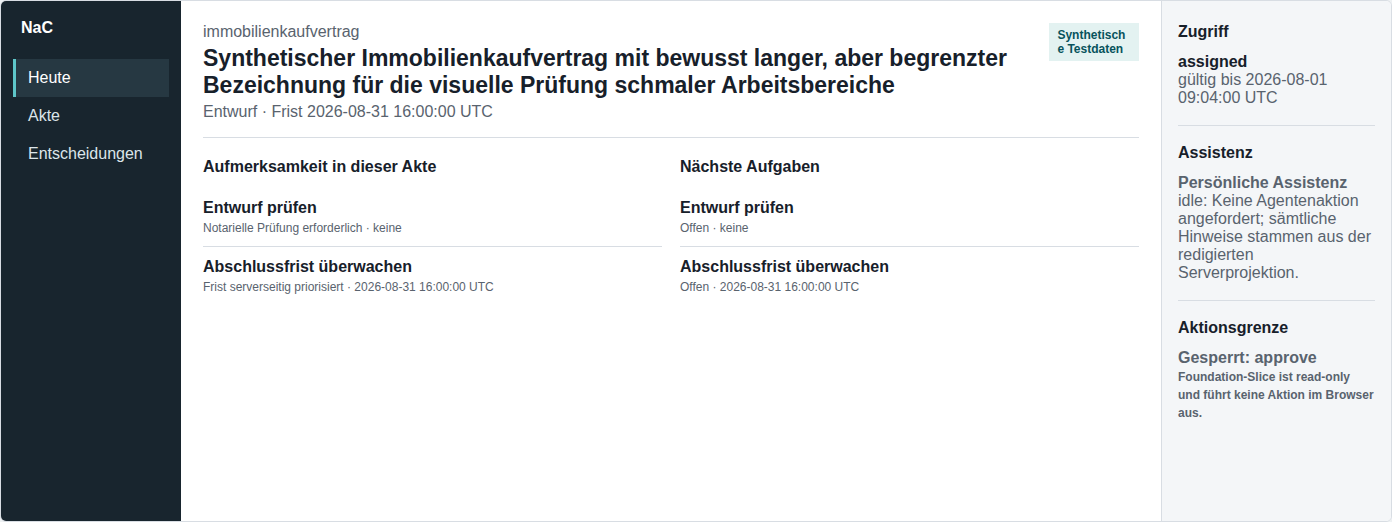
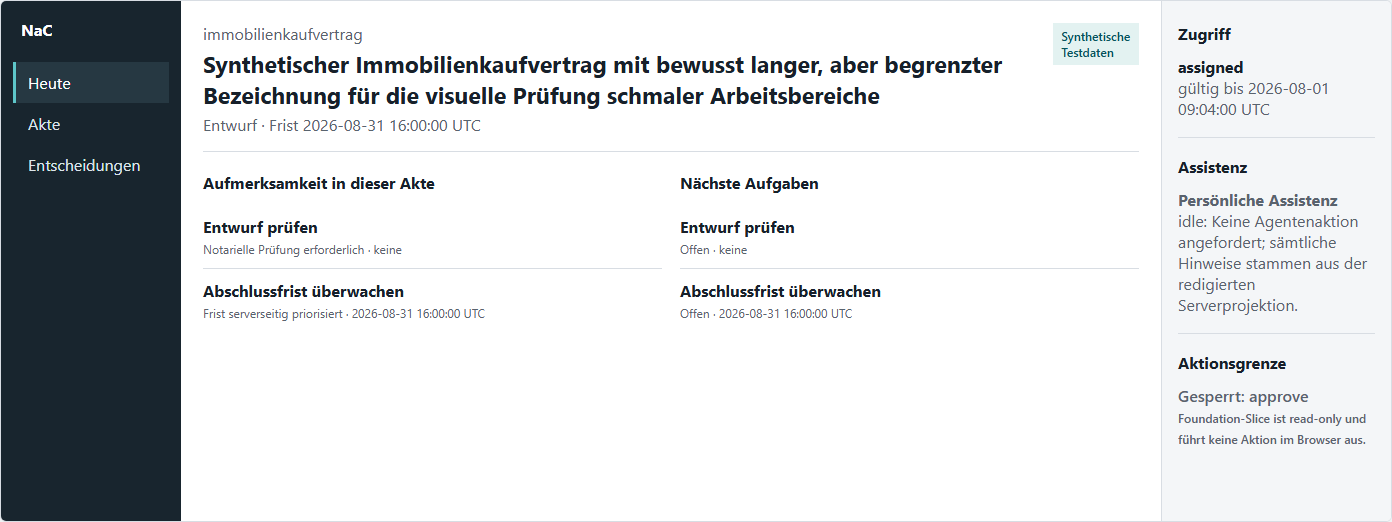
fix(ci): validate visual evidence across hosts

diff --git a/scripts/validate_m365_current_state_access_diagnostic.py b/scripts/validate_m365_current_state_access_diagnostic.py
@@ -43,10 +43,13 @@ REQUIRED_CHECKS = [
 ]
 REQUIRED_FILES = [
     ".codex/agents/nac-policy-reviewer.toml",
+    ".github/workflows/quality-gate.yml",
     ".github/workflows/windows-portability.yml",
     ".pi/agents/nac-policy-reviewer.md",
     "AGENTS.md",
     "agent-context/index.json",
+    "assets/docs/generic-workbench/VIS-721-01-desktop.png",
+    "assets/docs/generic-workbench/VIS-721-02-mobile.png",
     "assets/docs/generic-workbench/VIS-721-manifest.json",
     "assets/docs/workbench-live-read-binding/VIS-725-01-desktop-ready.png",
     "assets/docs/workbench-live-read-binding/VIS-725-02-narrow-spfx-ready.png",
@@ -75,6 +78,7 @@ REQUIRED_FILES = [
     "scripts/validate_m365_current_state_access_diagnostic.py",
     "scripts/validate_spec_traceability.py",
     "scripts/validate_workbench_live_read_binding.py",
+    "spfx/nac-bpmn-viewer/scripts/capture-workbench-visual-evidence.cjs",
     "spfx/nac-bpmn-viewer/scripts/capture-workbench-live-read-visual-evidence.cjs",
     "spfx/nac-bpmn-viewer/scripts/generate-workbench-live-read-visual-fixture.cjs",
     "spfx/nac-bpmn-viewer/scripts/validate-read-only-boundary.cjs",

diff --git a/scripts/validate_workbench_live_read_binding.py b/scripts/validate_workbench_live_read_binding.py
@@ -292,9 +292,9 @@ def validate() -> list[str]:
             '"assets/docs/**"',
             "pip install -e . fastapi==0.116.1 httpx==0.28.1",
             "npx --no-install playwright install --with-deps chromium",
-            "npm run workbench:capture",
-            "npm run workbench:live:capture",
-            "git diff --exit-code -- assets/docs/workbench-live-read-binding",
+            'npm run workbench:capture -- "$RUNNER_TEMP/generic-workbench"',
+            'npm run workbench:live:capture -- "$RUNNER_TEMP/workbench-live-read-binding"',
+            "python scripts/validate_workbench_live_read_binding.py",
             "workbench-live-host-compiled",
             "NacWorkbenchHost.js",
             "NacWorkbenchHost.styles.js",

diff --git a/docs/de/m365-current-state-access-diagnostic.md b/docs/de/m365-current-state-access-diagnostic.md
@@ -28,6 +28,13 @@ Anschließend erstellt der Befehl
 `client-observation-receipt.json` exklusiv. Ein vorhandener Beleg wird nicht
 überschrieben. Login, Netzwerk, Provider und Deployment bleiben unberührt.
 
+Die committed Windows-Screenshots bleiben der visuell geprüfte Referenzbeleg.
+Linux-CI erzeugt dieselben synthetischen Fälle in einem temporären
+Runner-Verzeichnis und prüft Zustände, Überlauf, Receipt-Schaltfläche,
+Bindungen sowie Null-Netzwerk- und Null-Autodownload-Grenzen. Plattformabhängige
+Schrift- und PNG-Bytes werden nicht fälschlich als fachliche Gleichheit
+behandelt.
+
 Der lokale Preflight erhält nur zwei absolute, repository-externe und über das
 Windows-Sicherheitsbackend geschützte Verzeichnisse:
 

diff --git a/docs/en/m365-current-state-access-diagnostic.md b/docs/en/m365-current-state-access-diagnostic.md
@@ -28,6 +28,12 @@ then exclusively creates
 `client-observation-receipt.json`. It does not overwrite an existing receipt.
 Login, network, provider, and deployment remain untouched.
 
+The committed Windows screenshots remain the visually reviewed reference
+evidence. Linux CI renders the same synthetic cases into a temporary runner
+directory and verifies states, overflow, the receipt button, bindings, and the
+zero-network and zero-auto-download boundaries. Platform-specific font and PNG
+bytes are not falsely treated as functional equality.
+
 The local preflight accepts only two absolute, repository-external directories
 protected through the Windows security backend:
 
